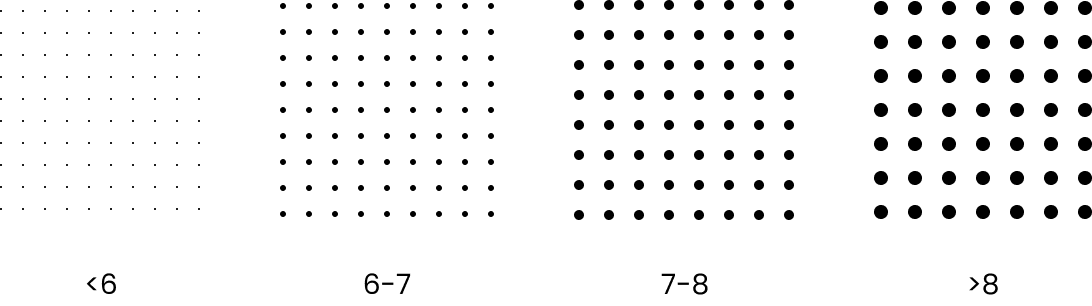
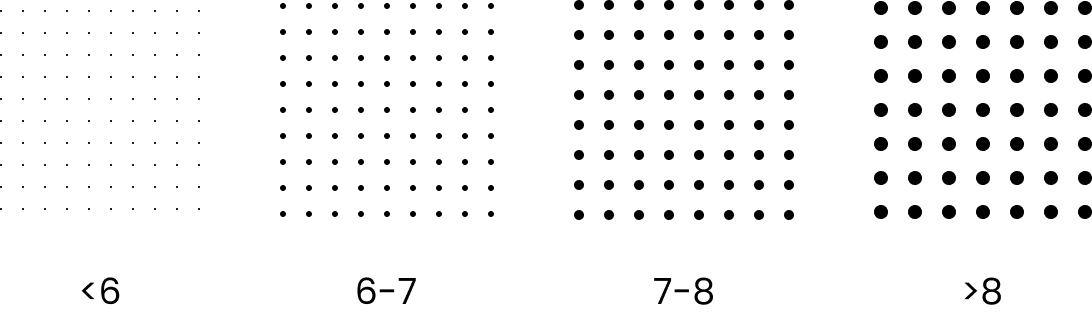
Update Legendas

diff --git a/scripts/mapa_vis.js b/scripts/mapa_vis.js
@@ -147,7 +147,7 @@ function draw_map(data) {
         });
 
         data[1].forEach(function(line) {
-          createPattern(defs, domainTBN, [1, 1, 3.5], line);
+          createPattern(defs, domainTBN, [1.5, 1.5, 3.5], line);
         });
 
         svg.selectAll(".pattern")
@@ -165,6 +165,8 @@ function draw_map(data) {
         d3.select("#tbmH4").text('Taxa Bruta de Mortalidade – '+tbmValue);
         d3.select("#regionSelected").text(regionName);
         d3.select("#regionSelected2").text(regionName);
+        d3.select("#imgTBN").attr("src", "img/legendaTBN-click.png");
+        d3.select("#imgTBM").attr("src", "img/legendaTBM-click.png");
         handleMapMouseOver(regionName);
 
         d3.select(targetSelected.parentNode).select(".region").attr("opacity", 1).attr('fill', '#6A6C99'); // região selecionada com opacidade máxima
@@ -209,6 +211,8 @@ function draw_map(data) {
         d3.select("#tbmH4").text('');
         d3.select("#regionSelected").text('');
         d3.select("#regionSelected2").text('Portugal Continental');
+        d3.select("#imgTBN").attr("src", "img/legendaTBN.png");
+        d3.select("#imgTBM").attr("src", "img/legendaTBM.png");
         handleMapMouseOver('Portugal Continental'); // reset radar chart
       }
     });

diff --git a/index.html b/index.html
@@ -61,10 +61,10 @@
     <div class="scales">
       <h4 class="regular">Taxa Bruta de Natalidade</h4>
       <hr>
-      <img class="scaleIMG" src="img/legendaTBN.png" alt="TBN-Legenda">
+      <img class="scaleIMG" id="imgTBN" src="img/legendaTBN.png" alt="TBN-Legenda">
       <h4 class="regular">Taxa Bruta de Mortalidade</h4>
       <hr>
-      <img class="scaleIMG" src="img/legendaTBM.png" alt="TBM-Legenda">
+      <img class="scaleIMG" id="imgTBM" src="img/legendaTBM.png" alt="TBM-Legenda">
     </div>
     <div></div> <!-- Criar espaço inferior -->
   </div>
